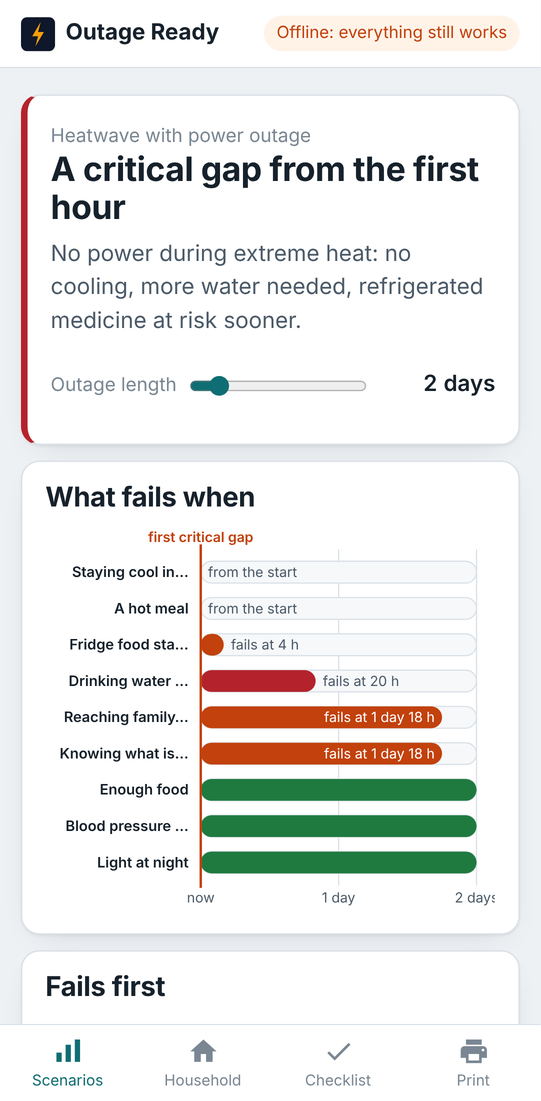
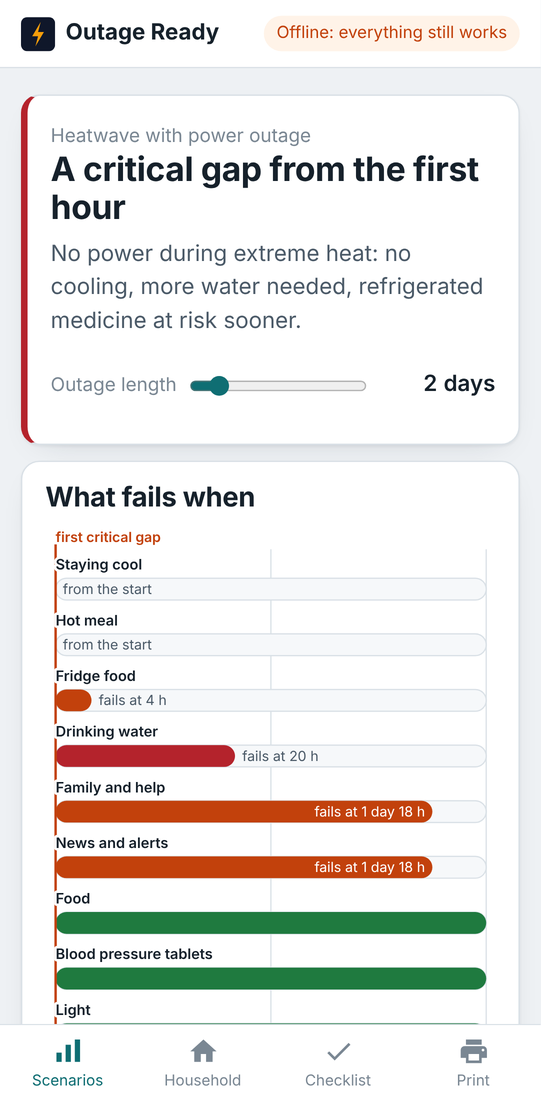
Update the README and screenshots for the failure chains

Changed region(s): [[0.0591, 0.4632, 0.9464, 0.9264]]

diff --git a/README.md b/README.md
@@ -10,8 +10,9 @@ scenario forward hour by hour, following the dependencies in your home, and
 tells you:
 
 - how long you are covered, and which need breaks that cover first;
-- a timeline of what fails when, and why (pump → power, fridge → power →
-  medication, phone → power bank → network);
+- a timeline of what fails when, and under each need the chain that broke
+  (tap → pump → power, medication → fridge → power, calls → phone → power
+  bank), down to the stock that ran out and when;
 - a prioritised list of what to do now, before the next outage, and during it;
 - a one-page printable backup plan.
 
@@ -105,8 +106,13 @@ flowchart LR
    hour at a time. Supplies are switched off by the scenario's hazards, stocks
    are consumed at rates taken from the assumptions (water per person per day,
    phone energy per day, stove hours per day), and the graph is re-evaluated
-   each hour. The first hour a node is unavailable is its failure time, and
-   the graph explains why. The cold chain is modelled explicitly: a closed
+   each hour. The first hour a node is unavailable is its failure time. For
+   every need that fails, the engine records the chain behind it: the
+   capability that stopped, what it needed, and the supply the scenario
+   switched off or the stock that ran out, with the hour. The app shows that
+   chain under each failing need, so "drinking water fails at 20 h" comes
+   with "the tap stopped at once because the pump needs power, and 12 L of
+   stored water ran out at 20 h". The cold chain is modelled explicitly: a closed
    fridge keeps 4 hours of cold, perishables are written off 4 hours after
    that, a freezer thaws at 24 or 48 hours depending on how full it is, and
    insulin gets a 28-day room-temperature window unless there is extreme heat.
@@ -117,9 +123,10 @@ flowchart LR
    above a comfort item that opens in four days. Task ids are stable, so
    ticking one off survives re-running the simulation.
 
-The engine has no DOM dependency and is covered by 23 `node:test` cases
+The engine has no DOM dependency and is covered by 28 `node:test` cases
 (`tests/`): graph evaluation, depletion arithmetic, cold-chain timing,
-phone/power-bank energy, overrides, and task ordering.
+phone/power-bank energy, the failure chains, homes on bottled water,
+overrides, and task ordering.
 
 ## Assumptions and sources
 
@@ -194,7 +201,8 @@ check that the live URL answers.
 - Generators are modelled as litres per hour with no load profile; solar and
   home batteries are not modelled yet.
 - "Buying supplies" assumes shops take cash during an outage and are open
-  unless the scenario closes them.
+  unless the scenario closes them, and that a home on bottled water can buy
+  more while that holds.
 - Emergency numbers are not pre-filled: they differ by country and change, so
   the printed plan leaves a line for you to write yours.
 - Translations and a readiness score over time are not implemented.
